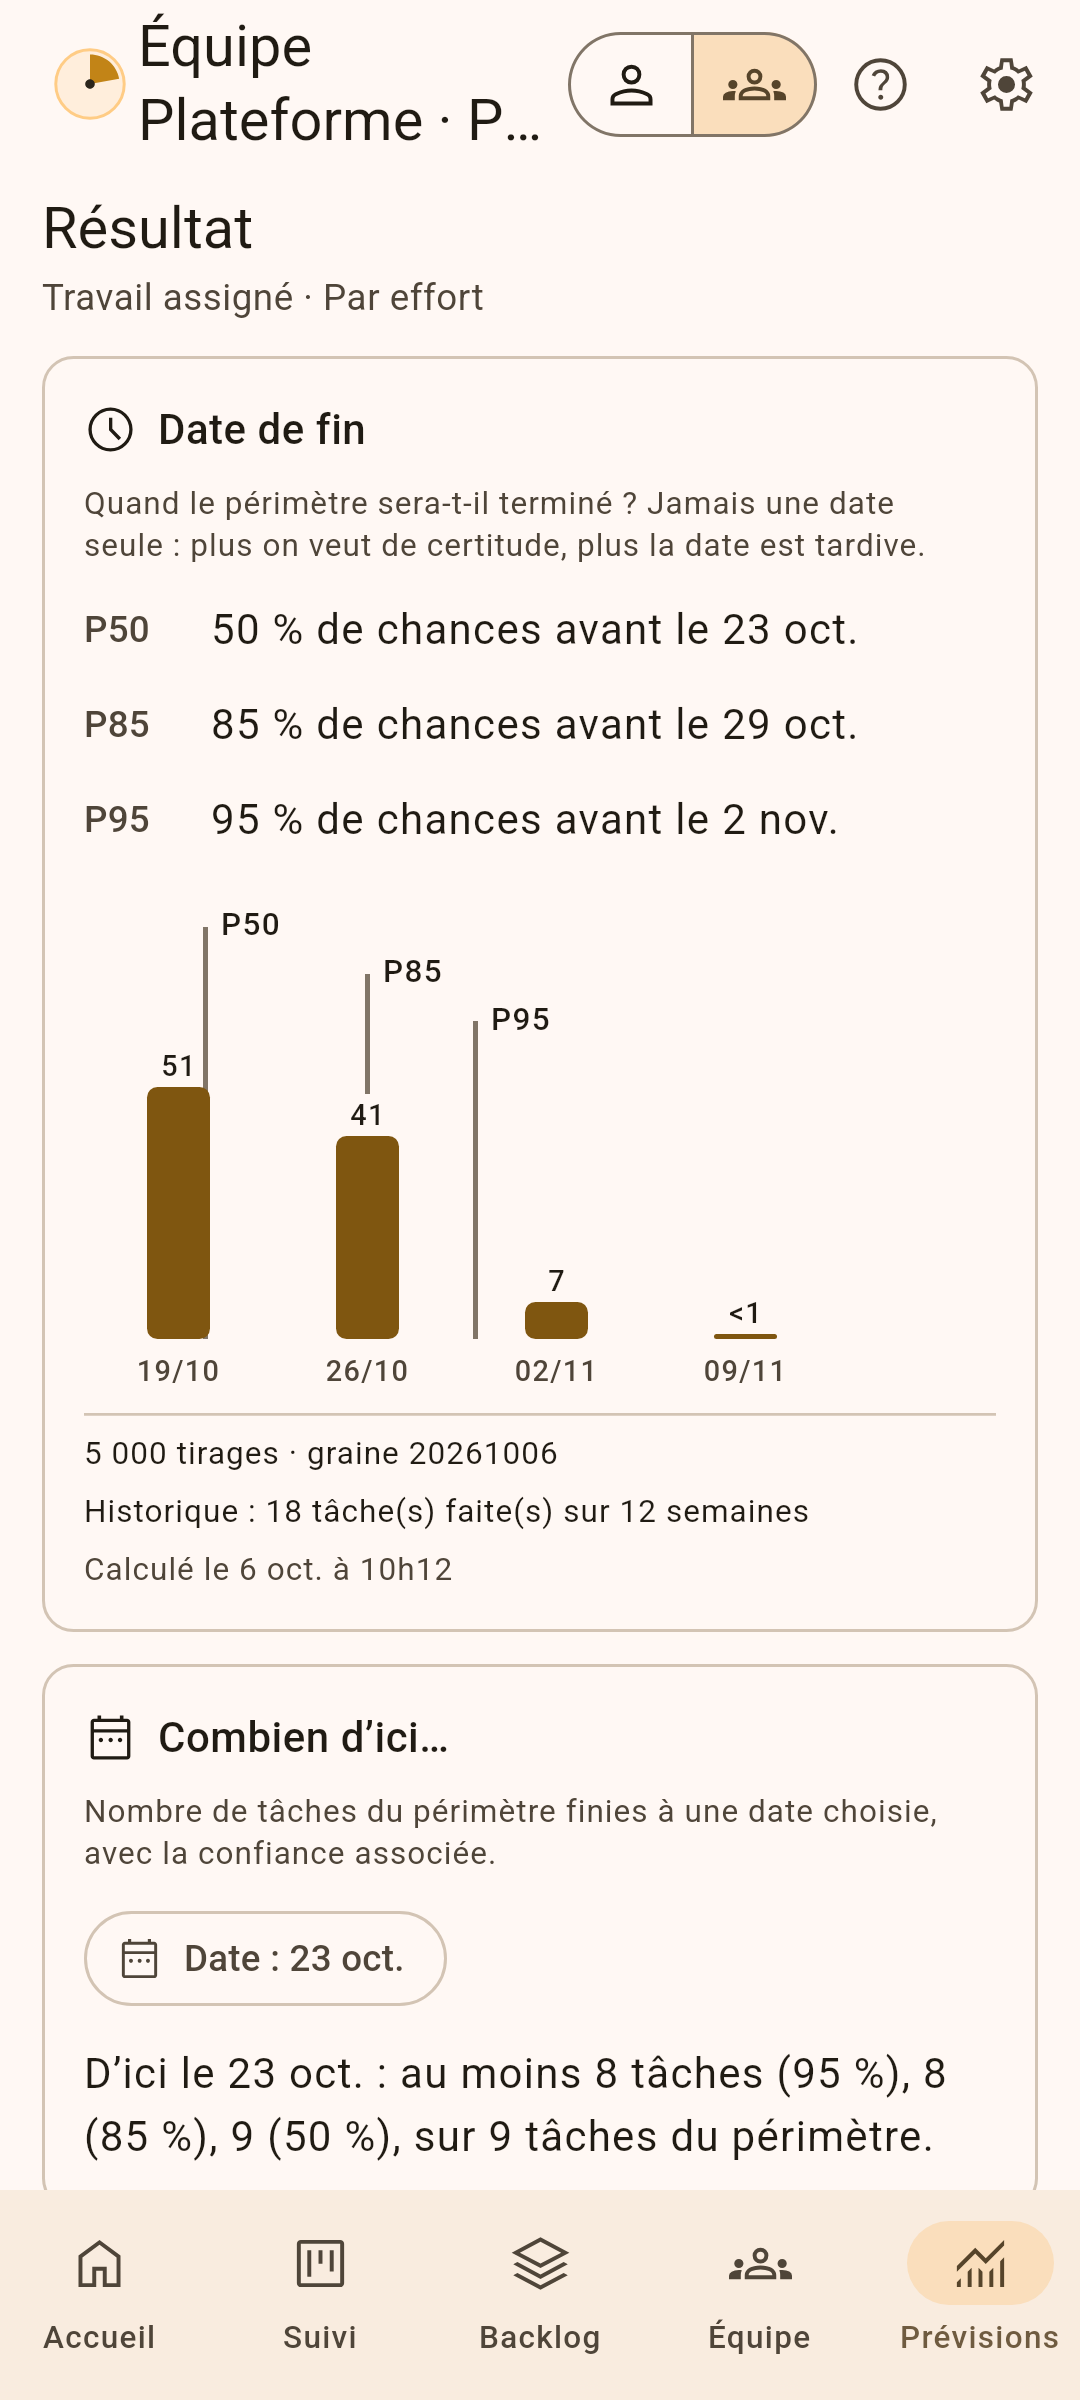
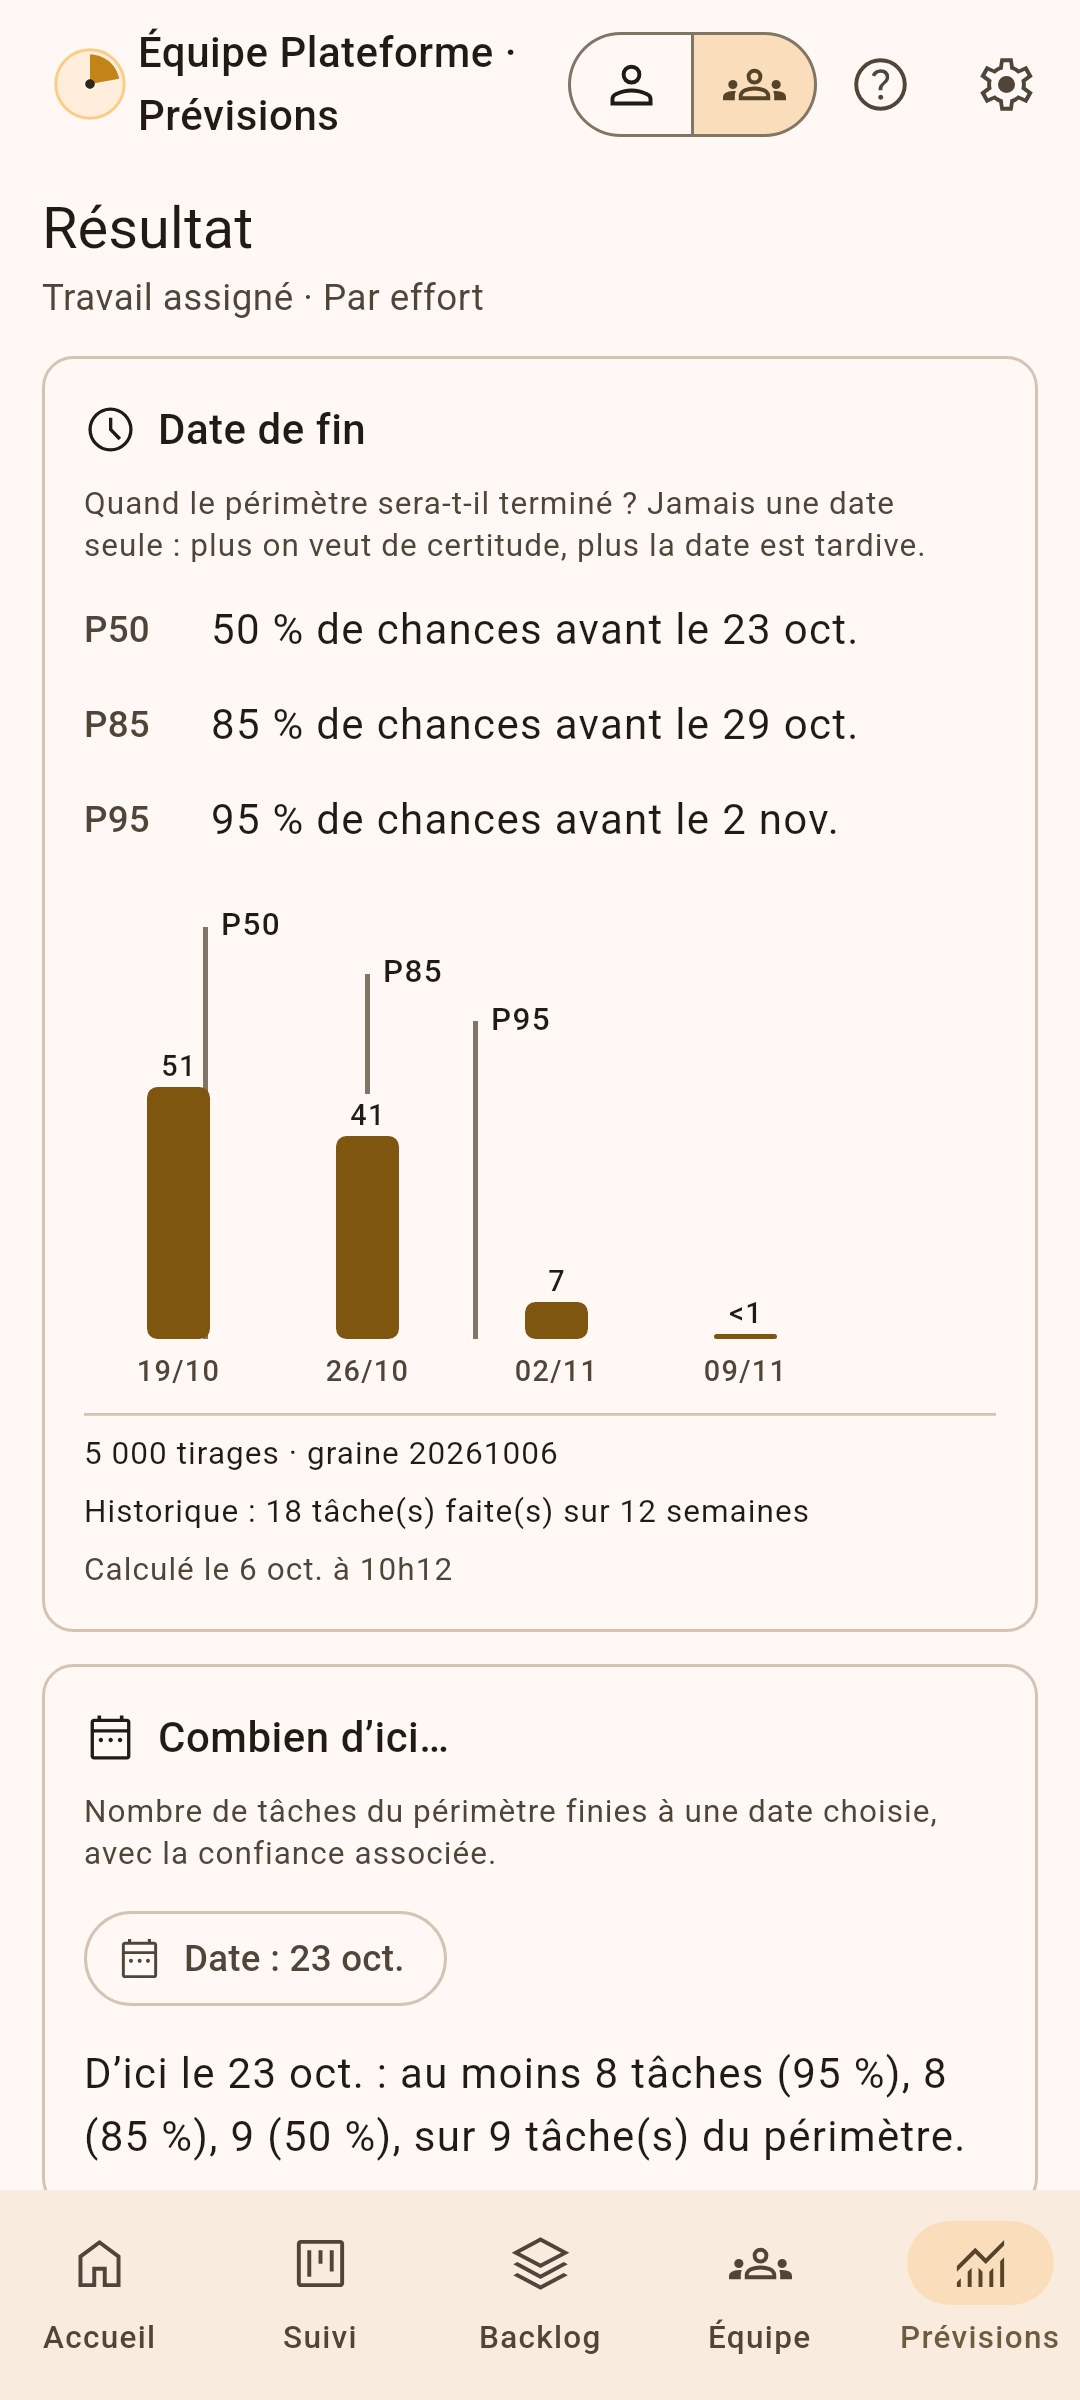
Import 2.x : refuse une base Kairos 3, titre de barre lisible à 360 dp, confirmation d'import (équipe), captures des magasins
Claude-Session: https://claude.ai/code/session_01JSD4okpBEEawrdmhC3Us3N

Changed region(s): [[0.1222, 0.0, 0.4583, 0.0625], [0.5806, 0.875, 0.8861, 0.9062]]

diff --git a/kmp/desktopApp/src/jvmMain/kotlin/com/skohscripts/kairos/desktop/LegacyFiles.kt b/kmp/desktopApp/src/jvmMain/kotlin/com/skohscripts/kairos/desktop/LegacyFiles.kt
@@ -19,6 +19,8 @@ import java.util.Properties
 object LegacyFiles {
     /** Tables de Kairos 2 reprises par la migration (`task_sync_meta` est ignorée). */
     private val TABLES = listOf("task", "time_block", "task_dependency", "work_session", "note")
+    /** Tables qui n'existent que dans une base Kairos 3 (jamais dans Kairos 2). */
+    private val K3_TABLES = listOf("team_member", "settings")
     private val json = Json { ignoreUnknownKeys = true }
 
     /** Base trouvée : le fichier SQLite et le `settings.json` voisin, s'il existe. */
@@ -57,6 +59,9 @@ object LegacyFiles {
                     buildSet { while (rs.next()) add(rs.getString(1)) }
                 }
             }
+            // Une base de Kairos 3 (tables `team_member`, `settings`…) a aussi une table `task` : l'importer comme une base 2.x
+            // remplaçait l'équipe et les réglages par des défauts. Refusée avant toute lecture.
+            if (K3_TABLES.any { it in existing }) throw NotALegacyDatabase()
             TABLES.filter { it in existing }.associateWith { table ->
                 connection.createStatement().use { st ->
                     st.executeQuery("SELECT * FROM \"$table\"").use { rs ->

diff --git a/kmp/ui/src/commonMain/kotlin/com/skohscripts/kairos/ui/navigation/AppShell.kt b/kmp/ui/src/commonMain/kotlin/com/skohscripts/kairos/ui/navigation/AppShell.kt
@@ -204,7 +204,12 @@ fun AppShell(
     val topBar: @Composable () -> Unit = {
         TopAppBar(
             // Deux lignes au plus (sélecteur d'espace à côté, fenêtre étroite) : la barre garde sa hauteur.
-            title = { Text(title, maxLines = 2, overflow = TextOverflow.Ellipsis) },
+            // Avec le sélecteur d'espace dans la barre, le titre garde moins de 120 dp à 360 dp : corps réduit, sinon
+            // « Aujourd’hui » et « Statistiques » se coupaient au milieu du mot.
+            title = {
+                val tight = layout != NavigationLayout.RAIL && selector != null
+                Text(title, style = if (tight) MaterialTheme.typography.titleMedium else MaterialTheme.typography.titleLarge, maxLines = 2, overflow = TextOverflow.Ellipsis)
+            },
             navigationIcon = {
                 if (secondary != null) {
                     IconButton(onClick = onCloseSecondary) {

diff --git a/kmp/desktopApp/src/jvmTest/kotlin/com/skohscripts/kairos/desktop/LegacyMigrationTest.kt b/kmp/desktopApp/src/jvmTest/kotlin/com/skohscripts/kairos/desktop/LegacyMigrationTest.kt
@@ -132,5 +132,12 @@ class LegacyMigrationTest {
         val other = File.createTempFile("other", ".db")
         java.sql.DriverManager.getConnection("jdbc:sqlite:${other.absolutePath}").use { it.createStatement().execute("CREATE TABLE x(id INTEGER)") }
         assertFailsWith<NotALegacyDatabase> { Kairos2Import.convert(LegacyFiles.read(other), "fr", now) }
+        // Une base de Kairos 3 a aussi une table `task` : refusée, au lieu de remettre équipe et réglages à zéro.
+        val kairos3 = File.createTempFile("kairos3", ".db")
+        java.sql.DriverManager.getConnection("jdbc:sqlite:${kairos3.absolutePath}").use {
+            it.createStatement().execute("CREATE TABLE task(id INTEGER)")
+            it.createStatement().execute("CREATE TABLE team_member(id INTEGER)")
+        }
+        assertFailsWith<NotALegacyDatabase> { LegacyFiles.read(kairos3) }
     }
 }

diff --git a/docs/spec/navigation-theme.md b/docs/spec/navigation-theme.md
@@ -68,7 +68,7 @@ aussi pouvoir comprendre ce que fait l'outil sans lire le dépôt.
   septembre 2026 » pour un autre jour qu'aujourd'hui, « Semaine · du lundi
   28 septembre 2026 » pour la semaine regardée ; sans rail (fenêtre
   étroite), en date courte (« Jour · mer. 30/09 », « Semaine · du 28 sept. »).
-  Deux lignes au plus, puis points de suspension.
+  Deux lignes au plus, puis points de suspension ; en corps `titleMedium` quand le sélecteur d’espace partage la barre (sans rail), pour que « Aujourd’hui » ne se coupe pas au milieu du mot à 360 dp.
 - Au lancement, un indicateur « Ouverture de Kairos… » attend l'ouverture des
   données ; un échec est affiché (« Impossible d'ouvrir les données » et le
   détail), jamais un écran vide.

diff --git a/docs/spec/migration-2x.md b/docs/spec/migration-2x.md
@@ -57,6 +57,9 @@ perte, ni risque pour l'ancienne base.
   TimeTree…), jamais lus au-delà de leur nom.
 - Un fichier qui n'est pas une base Kairos 2 est refusé (« Ce fichier n'est
   pas une base Kairos 2 (tasks.db). »), sans rien changer.
+  Une **base de Kairos 3** (tables `team_member`, `settings`) a aussi une table
+  `task` : `LegacyFiles.read` la refuse de la même façon, au lieu de remettre
+  l'équipe et les réglages à leurs défauts.
 
 ### Critères de succès
 
